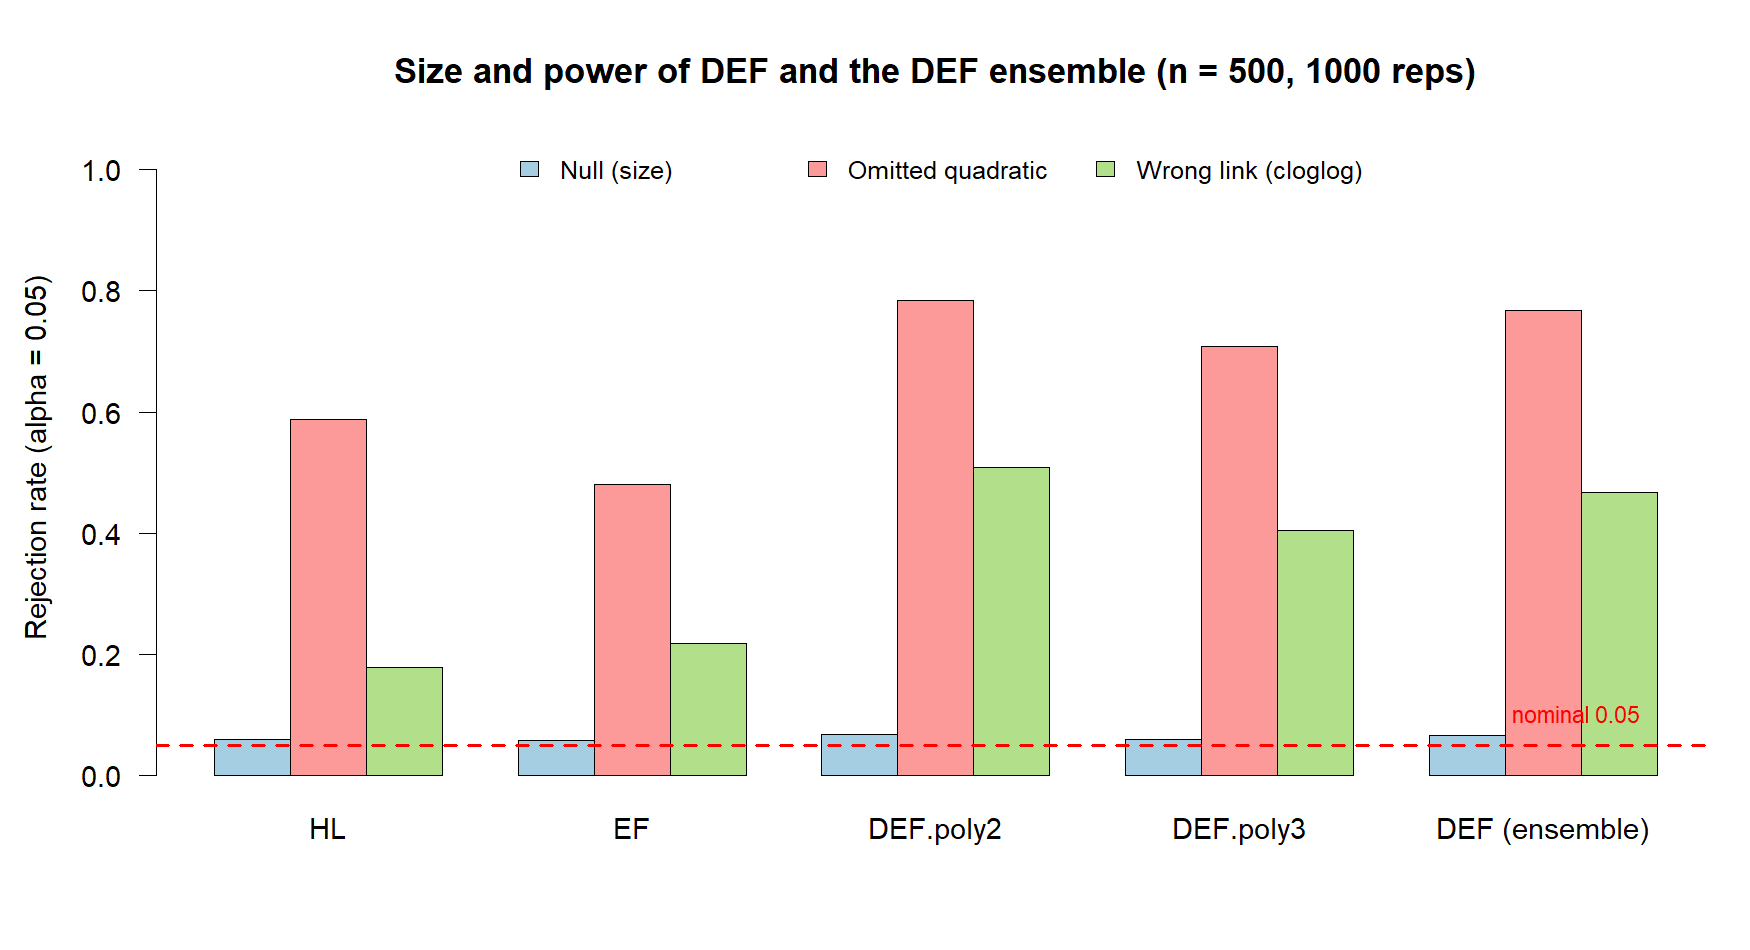
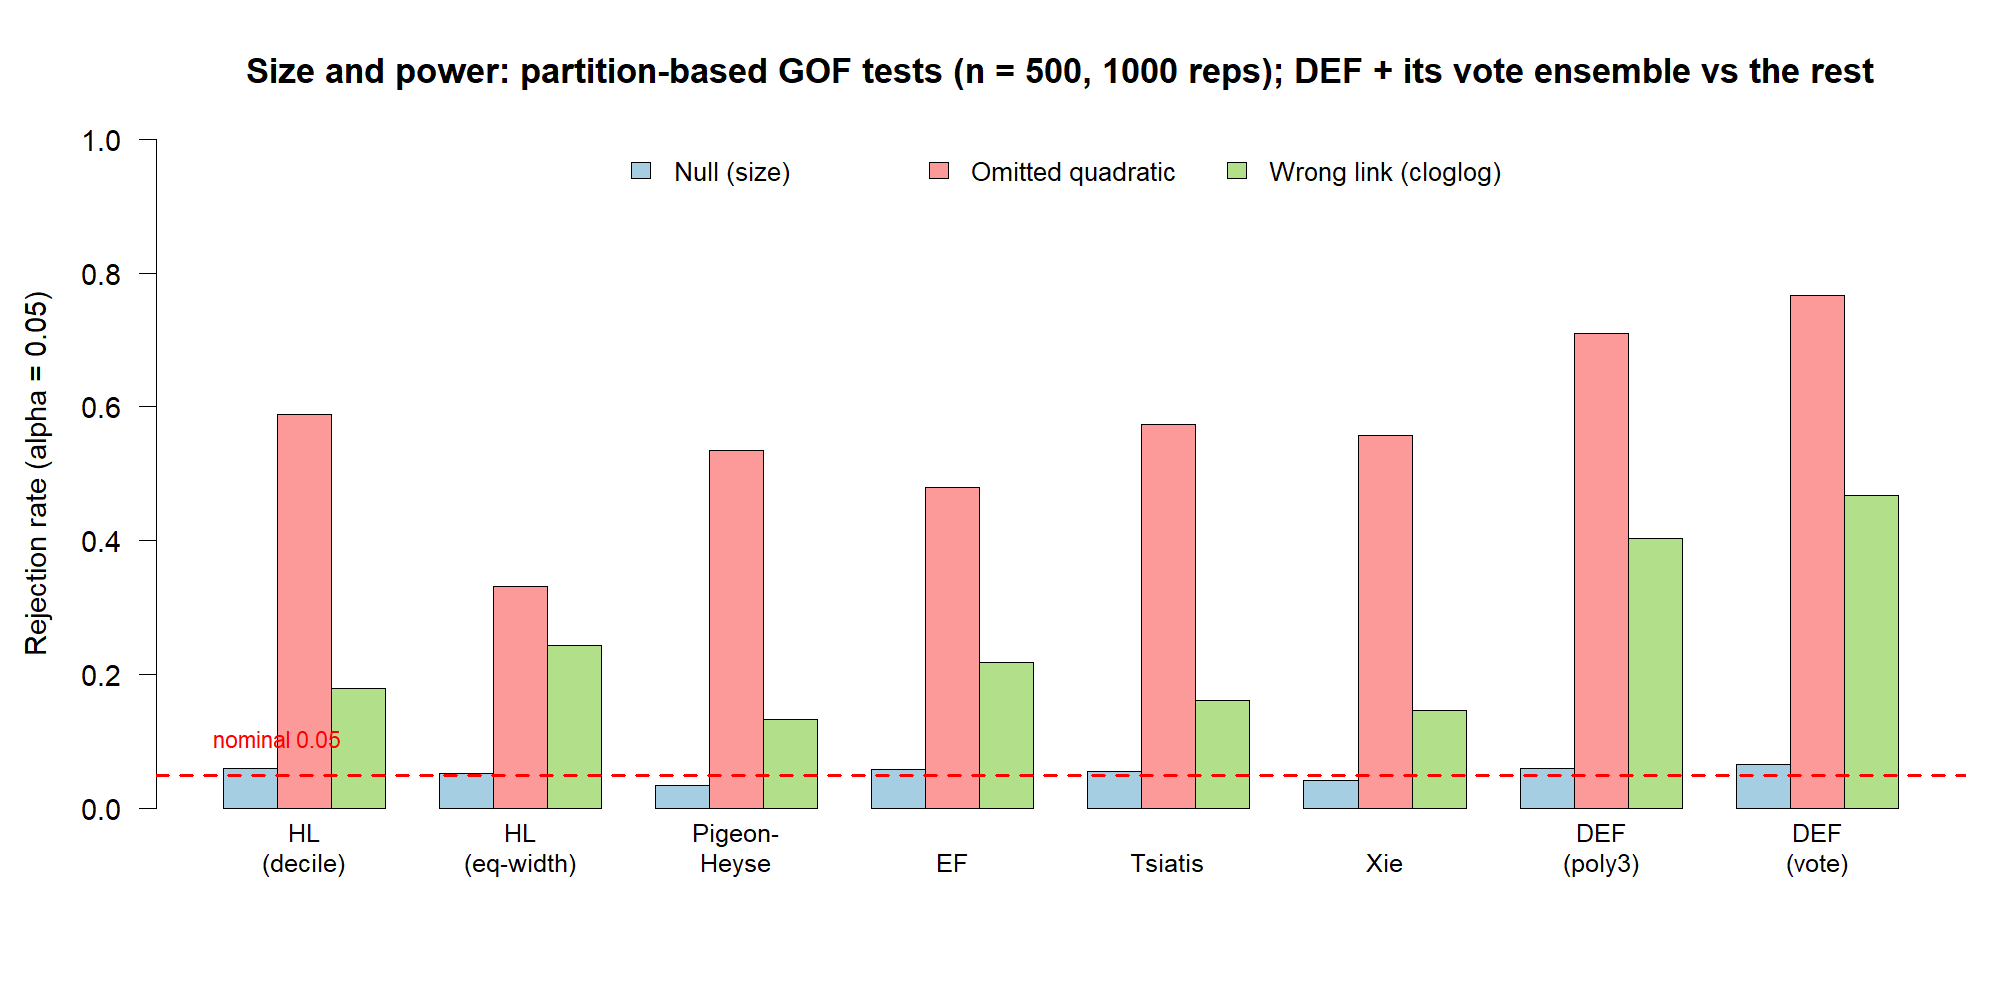
docs + CI: partition-based power/size comparison, CRAN fix, R-hub workflow
- Restrict the power/size comparison to the partition-based family (drop Stukel,
  Osius, Information-Matrix) and add the family's pros and cons. DEF and its vote
  ensemble lead the family on power while holding size ~0.06 (not liberal).
- Regenerate the figure (partition tests only) from the run.all.gof battery sim.
- README: fix the CRAN section (1.0.0 IS on CRAN; 2.0.0 being submitted); add
  run.all.gof and DEF/ensemble examples (Examples 5 and 6).
- Vignette: matching partition-only table + pros/cons note.
- Add .github/workflows/rhub.yaml (R-hub v2 on-demand multi-platform check;
  R-CMD-check.yaml already covers Windows/macOS/Linux on push).

diff --git a/README.md b/README.md
@@ -33,13 +33,14 @@ devtools::install_github("ebrahimkhaled/ebrahim.gof")
 ```
 
 
-### From CRAN (Stable Version) (_NOT AVAILABLE YET_)
+### From CRAN (Stable Version)
 
-Another way to install the R library, but it is _not available yet_.
+The released version is on CRAN (currently **1.0.0**):
 ```r
-# Will be available after CRAN submission
 install.packages("ebrahim.gof")
 ```
+Version **2.0.0** — this version, with the directed test, the ensemble, and the
+one-call battery — is available from GitHub now and is being submitted to CRAN.
 
 ## Quick Start
 
@@ -139,33 +140,61 @@ le Cessie-van Houwelingen, the GAM-based tests (HL-GAM, PR-GAM, Xie-GAM; need
 `mgcv`), Stute-Zhu, eHL, BAGofT, and the Lai & Liu standardized-power HL test.
 Every test reproduces the implementation used in the original thesis simulation.
 
-## Power and size: DEF and the DEF ensemble
+## Power and size: the partition-based family
 
-The directed tests are designed to be **powerful without being liberal**. In a
-quick Monte Carlo (n = 500, 1000 replications, α = 0.05) the DEF bases and their
-ensemble hold the nominal size under a correctly specified model, yet detect
-misspecification far more often than the Hosmer–Lemeshow (HL) test or the omnibus
-EF test:
+Most goodness-of-fit tests for logistic regression are **partition-based**: they
+split the data into groups — by the fitted probability, by covariate-space
+clusters, or by categorical patterns — and compare observed with expected event
+counts in each group. This is the family that `ef.gof()`, `def.gof()`, and
+`def.ensemble.gof()` belong to. In a Monte Carlo study (n = 500, 1000 replications,
+α = 0.05) the partition tests compare as follows:
 
-| Test | Size (null model) | Power: omitted quadratic | Power: wrong link (cloglog) |
-|---|:---:|:---:|:---:|
-| Hosmer–Lemeshow | 0.060 | 0.588 | 0.179 |
-| EF (omnibus) | 0.058 | 0.480 | 0.218 |
-| DEF (poly2) | 0.068 | 0.784 | 0.509 |
-| DEF (poly3) | 0.060 | 0.709 | 0.404 |
-| **DEF (ensemble)** | **0.066** | **0.767** | **0.468** |
+| Test | Grouping | Size (null) | Power: quadratic | Power: wrong link |
+|---|---|:---:|:---:|:---:|
+| Hosmer–Lemeshow (decile) | fitted prob | 0.060 | 0.588 | 0.179 |
+| Hosmer–Lemeshow (equal-width) | fitted prob | 0.053 | 0.332 | 0.244 |
+| Pigeon–Heyse | fitted prob | 0.035 | 0.535 | 0.133 |
+| EF (omnibus) | fitted prob | 0.058 | 0.480 | 0.218 |
+| Tsiatis | covariate clusters | 0.056 | 0.574 | 0.162 |
+| Xie | covariate clusters | 0.042 | 0.557 | 0.147 |
+| DEF (poly3) | fitted prob + shape basis | 0.060 | 0.709 | 0.404 |
+| **DEF (ensemble, vote)** | fitted prob + 3 bases | **0.066** | **0.767** | **0.468** |
 
-The size stays around the nominal 0.05 for every test — the directed tests **do
-not over-reject** (they are not liberal) — while DEF and the ensemble are markedly
-more powerful, roughly **2–3× the power of HL** on the wrong-link scenario and
-clearly ahead on the omitted-quadratic scenario.
+Across the family, **DEF and its vote ensemble are the most powerful while keeping
+the size near the nominal 0.05** — they are not liberal — and they roughly double
+the power of Hosmer–Lemeshow, Tsiatis, and Xie on the wrong-link misfit.
 
-![Size and power of DEF and the DEF ensemble](vignettes/power_size_def.png)
+![Size and power across partition-based GOF tests](vignettes/power_size_def.png)
 
-*Setup: covariate `x ~ Uniform(-3, 3)`, models fitted as `glm(y ~ x)`; the null
-is a correct logit model, the power scenarios omit a quadratic term and fit a
-logit when the truth is complementary log-log. Computed with the package's own
-`ef.gof()`, `def.gof()`, and `def.ensemble.gof()`.*
+### Pros and cons of partition-based tests
+
+**Pros**
+- Intuitive — compare observed vs expected event counts within groups.
+- Work for **sparse data and continuous covariates**, where the classical Pearson
+  and deviance chi-square tests break down (those need replicated covariate
+  patterns).
+- Widely used and understood (Hosmer–Lemeshow is the de-facto standard).
+- Flexible — group by the fitted probability (HL, EF, Pigeon–Heyse, DEF) or by the
+  covariate space (Tsiatis, Xie) to target different kinds of misfit.
+
+**Cons**
+- The result depends on the **grouping choice** — the number of groups `G` and the
+  grouping rule. Hosmer–Lemeshow in particular is known to give different answers
+  for different `G` and across software.
+- **Limited power for some departures** — omnibus partition tests (HL) spread their
+  few degrees of freedom thinly; fitted-probability grouping can miss misfit that
+  cancels along the predicted probability; covariate-clustering tests can miss
+  smooth link departures.
+- The chi-square reference is **asymptotic** and needs adequate group sizes.
+
+DEF is built to fix the power cons **without** giving up size control: it keeps the
+intuitive fitted-probability grouping but *directs* the test at calibration-curve
+shapes, and the ensemble removes the basis choice by combining those directions —
+which is why it tops the table above while staying at the nominal size.
+
+*Setup: covariate `x ~ Uniform(-3, 3)`, models fitted as `glm(y ~ x)`; all tests
+computed in one call with the package's own `run.all.gof()`. The dashed red line
+marks the nominal 0.05 size.*
 
 ## Examples
 
@@ -264,6 +293,46 @@ power_results <- data.frame(
   power = sapply(c(100, 200, 500, 1000), simulate_power)
 )
 print(power_results)
+```
+
+### Example 5: Run the whole battery at once (`run.all.gof`)
+
+```r
+library(ebrahim.gof)
+
+# a model on the classic low-birth-weight data
+fit <- glm(low ~ age + lwt + factor(race) + smoke,
+           data = MASS::birthwt, family = binomial())
+
+# every test in one tidy data frame (one row per test)
+run.all.gof(fit)
+
+# also run the opt-in slow tests (le Cessie, GAM-based, Stute-Zhu, eHL, BAGofT,
+# Lai-Liu); set the bootstrap reps via control
+run.all.gof(fit, include_slow = TRUE,
+            control = list("Stute-Zhu" = list(B = 200)))
+
+# or just a chosen subset
+run.all.gof(fit, tests = c("EF", "DEF.poly3", "Tsiatis", "HL"))
+```
+
+### Example 6: Directed test and the ensemble (`def.gof`, `def.ensemble.gof`)
+
+```r
+set.seed(1)
+n <- 800
+x <- runif(n, -3, 3)
+y <- rbinom(n, 1, 1 - exp(-exp(0.6 * x)))   # true link is complementary log-log
+fit <- glm(y ~ x, family = binomial())       # fitted as logit (misspecified)
+
+# the directed test with different shape bases
+def.gof(fit, basis = "poly2")
+def.gof(fit, basis = "stukel")
+
+# the recommended default: combine the three bases with the Cauchy combination
+# test (no basis to choose, valid size)
+def.ensemble.gof(fit)
+def.ensemble.gof(fit, add_ef = TRUE)   # also fold in the omnibus EF
 ```
 
 ## Methodology